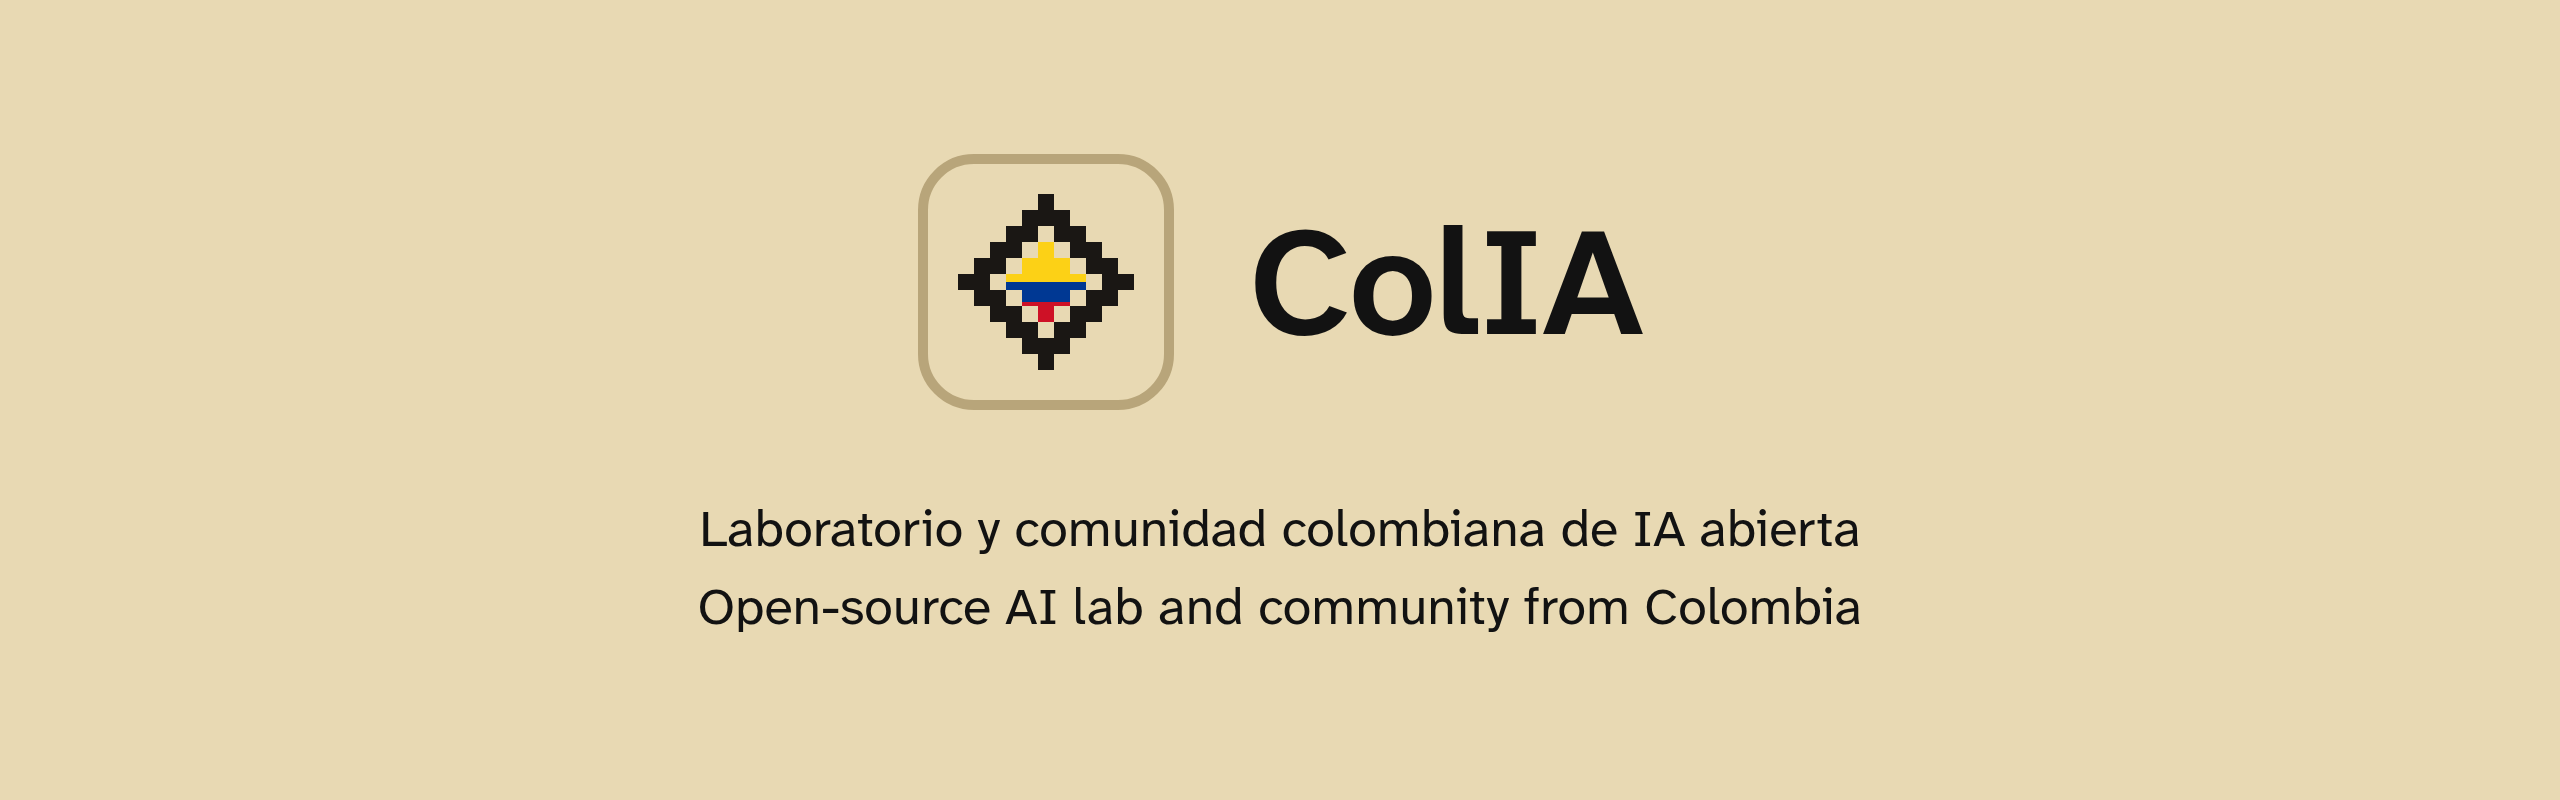
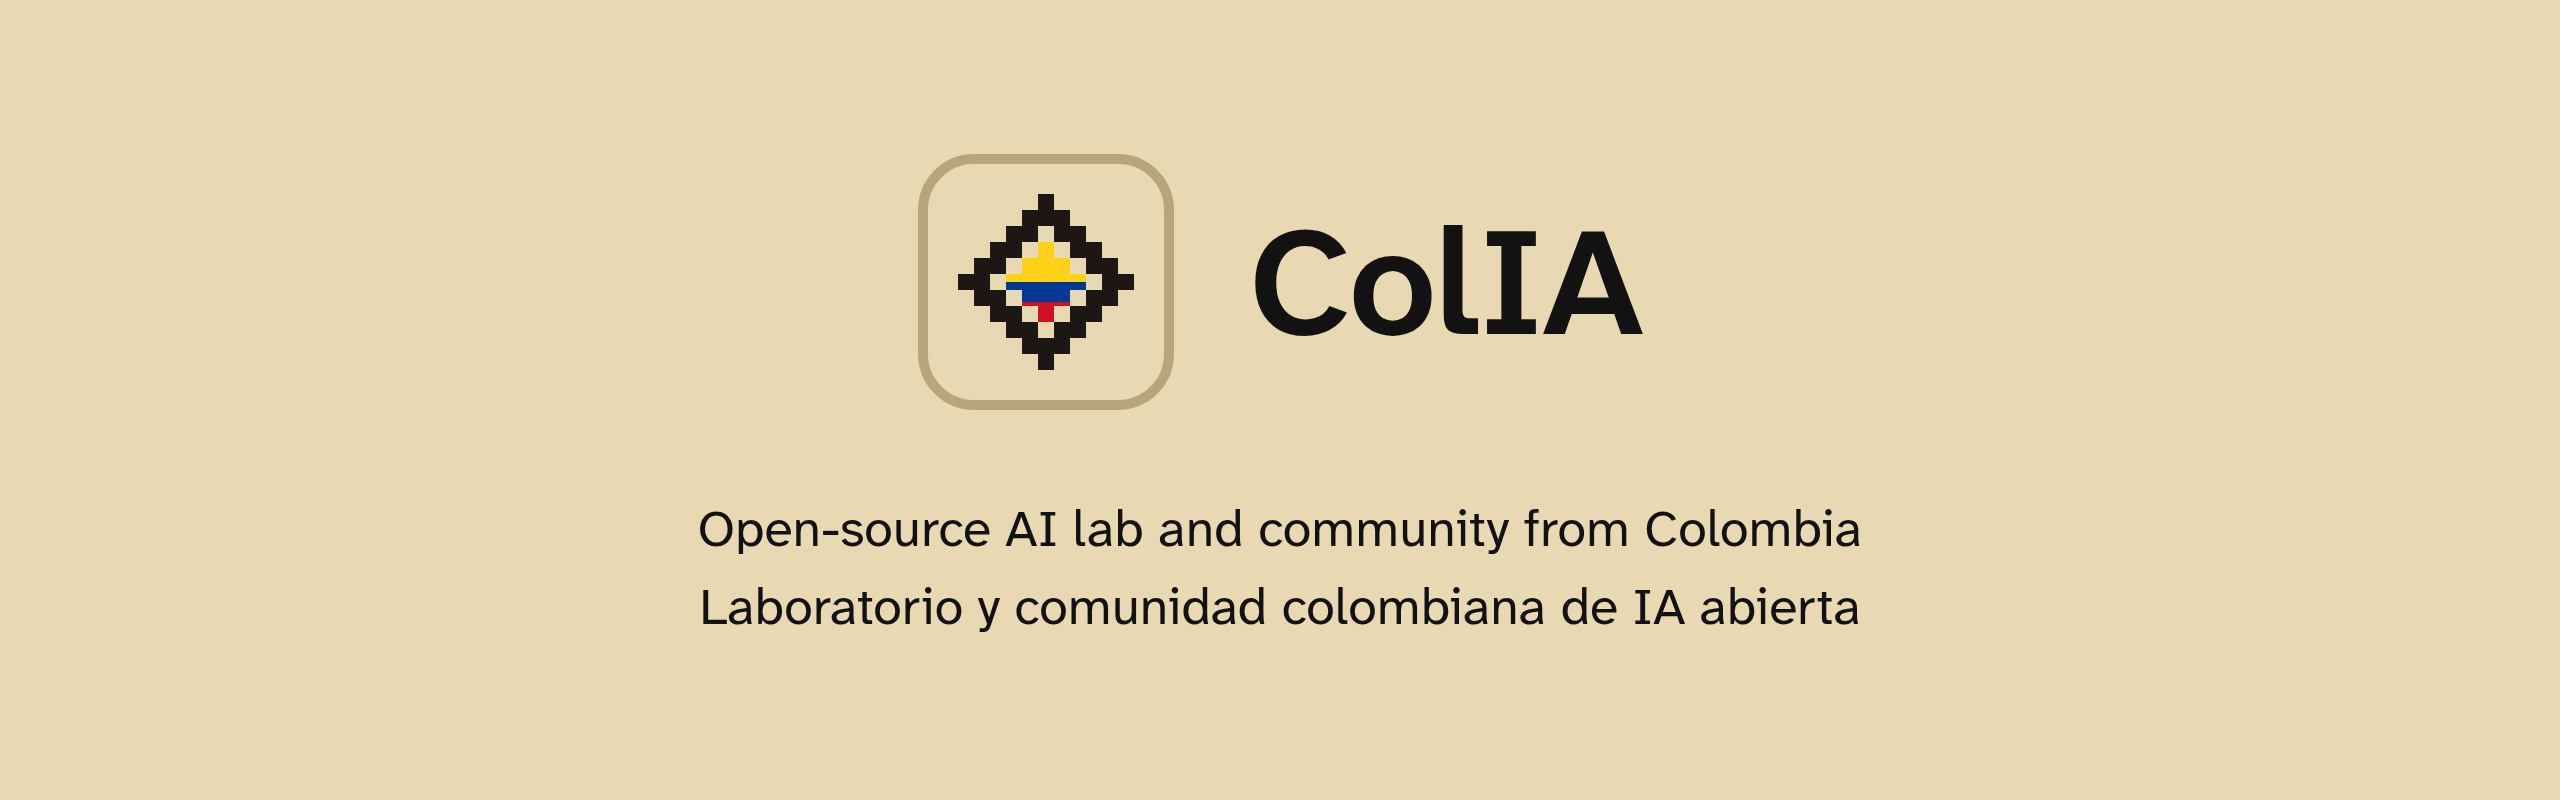
Pone el inglés primero y el español después

Changed region(s): [[0.2812, 0.625, 0.7188, 0.6875], [0.2812, 0.7188, 0.7188, 0.7812]]

diff --git a/CONTRIBUTING.md b/CONTRIBUTING.md
@@ -1,40 +1,6 @@
-# Guía para aportar · Contributing guide
+# Contributing guide · Guía para aportar
 
-[Español](#español) · [English](#english)
-
-## Español
-
-Gracias por querer aportar a ColIA. No hace falta ser experto: si estás aprendiendo, este también es tu sitio.
-
-### Formas de aportar
-
-No todo es código. Todo esto ayuda:
-
-- **Preguntar.** Si algo no se entiende, otra persona tampoco lo entiende. Pregunta en [Discussions](https://github.com/orgs/colia-labs/discussions).
-- **Contar un error.** Abre un *issue* (una incidencia: un aviso de que algo falla) en el repo del proyecto. Di qué hiciste, qué esperabas y qué pasó.
-- **Proponer una idea.** Cuéntala en Discussions antes de construirla. Así la pensamos juntos.
-- **Mejorar textos y traducciones.** Todo lo que publicamos va en español y en inglés.
-- **Medir en tu equipo.** Si pruebas un modelo en tu hardware, tus cifras sirven a otras personas.
-- **Escribir código.** Sigue los pasos de abajo.
-
-### Si vas a cambiar código o textos
-
-1. **Para un cambio grande, avisa primero** con un *issue* o en Discussions. Así no trabajas en algo que ya está en marcha.
-2. **Haz un *fork*** (tu copia del repo en tu cuenta de GitHub) y crea una rama para tu cambio.
-3. **Haz cambios pequeños y explica el porqué** en cada *commit* (cada guardado en el historial).
-4. **Abre un *pull request*** (una petición para unir tu cambio al repo). Di qué cambia y cómo lo probaste.
-5. **Responde a los comentarios.** Revisar es parte del trabajo, no un examen.
-
-Cada repo puede tener su propia guía con más detalle. Si la tiene, manda la del repo.
-
-### Cómo escribimos
-
-- En español y en inglés, en lenguaje claro: frases cortas y cada término técnico explicado la primera vez.
-- Sin exagerar. Si algo es rápido, di cuánto: «94 tok/s», no «muy rápido».
-
-### Normas
-
-Al participar aceptas las [normas de convivencia](CODE_OF_CONDUCT.md).
+[English](#english) · [Español](#español)
 
 ## English
 
@@ -47,7 +13,7 @@ Not everything is code. All of this helps:
 - **Ask.** If something isn't clear to you, it isn't clear to someone else either. Ask in [Discussions](https://github.com/orgs/colia-labs/discussions).
 - **Report a bug.** Open an issue in the project's repo. Say what you did, what you expected and what happened.
 - **Suggest an idea.** Share it in Discussions before you build it, so we can think it through together.
-- **Improve texts and translations.** Everything we publish ships in Spanish and English.
+- **Improve texts and translations.** Everything we publish ships in English and Spanish.
 - **Measure on your computer.** If you test a model on your hardware, your numbers help other people.
 - **Write code.** Follow the steps below.
 
@@ -63,9 +29,43 @@ Each repo can have its own, more detailed guide. If it does, that guide wins.
 
 ### How we write
 
-- In Spanish and English, in plain language: short sentences, and every technical term explained the first time.
+- In English and Spanish, in plain language: short sentences, and every technical term explained the first time.
 - No hype. If something is fast, say how fast: "94 tok/s", not "really fast".
 
 ### Rules
 
 By taking part, you agree to the [code of conduct](CODE_OF_CONDUCT.md).
+
+## Español
+
+Gracias por querer aportar a ColIA. No hace falta ser experto: si estás aprendiendo, este también es tu sitio.
+
+### Formas de aportar
+
+No todo es código. Todo esto ayuda:
+
+- **Preguntar.** Si algo no se entiende, otra persona tampoco lo entiende. Pregunta en [Discussions](https://github.com/orgs/colia-labs/discussions).
+- **Contar un error.** Abre un *issue* (una incidencia: un aviso de que algo falla) en el repo del proyecto. Di qué hiciste, qué esperabas y qué pasó.
+- **Proponer una idea.** Cuéntala en Discussions antes de construirla. Así la pensamos juntos.
+- **Mejorar textos y traducciones.** Todo lo que publicamos va en inglés y en español.
+- **Medir en tu equipo.** Si pruebas un modelo en tu hardware, tus cifras sirven a otras personas.
+- **Escribir código.** Sigue los pasos de abajo.
+
+### Si vas a cambiar código o textos
+
+1. **Para un cambio grande, avisa primero** con un *issue* o en Discussions. Así no trabajas en algo que ya está en marcha.
+2. **Haz un *fork*** (tu copia del repo en tu cuenta de GitHub) y crea una rama para tu cambio.
+3. **Haz cambios pequeños y explica el porqué** en cada *commit* (cada guardado en el historial).
+4. **Abre un *pull request*** (una petición para unir tu cambio al repo). Di qué cambia y cómo lo probaste.
+5. **Responde a los comentarios.** Revisar es parte del trabajo, no un examen.
+
+Cada repo puede tener su propia guía con más detalle. Si la tiene, manda la del repo.
+
+### Cómo escribimos
+
+- En inglés y en español, en lenguaje claro: frases cortas y cada término técnico explicado la primera vez.
+- Sin exagerar. Si algo es rápido, di cuánto: «94 tok/s», no «muy rápido».
+
+### Normas
+
+Al participar aceptas las [normas de convivencia](CODE_OF_CONDUCT.md).

diff --git a/profile/README.md b/profile/README.md
@@ -1,36 +1,6 @@
-<p align="center"><img src="portada.png" alt="ColIA: laboratorio y comunidad colombiana de IA abierta" width="100%"></p>
+<p align="center"><img src="portada.png" alt="ColIA: open-source AI lab and community from Colombia" width="100%"></p>
 
-<p align="center"><a href="#español">Español</a> · <a href="#english">English</a></p>
-
-## Español
-
-ColIA es un laboratorio y una comunidad colombiana de IA abierta, donde se aprende construyendo y se demuestra que en Latinoamérica también se crea.
-
-### Qué hacemos
-
-| Proyecto | Qué es | Estado |
-|---|---|---|
-| **ColIA-Local** | Una app que pone modelos de IA en tu equipo, sin cuenta y sin nube | En desarrollo |
-| **Sibundoy** | Un modelo pequeño que traduce de inglés a español | En preparación, en [Hugging Face](https://huggingface.co/colia-labs) |
-
-### Cómo trabajamos
-
-- **Abierto.** El código, los modelos y las recetas se publican con licencia abierta.
-- **Medido.** Cada afirmación lleva cifras, medidas en hardware modesto.
-- **Bilingüe.** Todo sale en español y en inglés. El español es nativo, no una traducción.
-- **Local.** Lo que hacemos funciona en tu equipo, sin depender de una nube.
-- **Comunidad.** Quien quiera aprender, explorar o aportar es bienvenido, sepa mucho o poco.
-
-### Únete
-
-No hace falta ser experto. Aquí aprendemos haciendo y en público.
-
-- **Habla con nosotros** en [Discussions](https://github.com/orgs/colia-labs/discussions): preguntas, ideas o lo que estés construyendo.
-- **Aporta** siguiendo la [guía para aportar](https://github.com/colia-labs/.github/blob/main/CONTRIBUTING.md).
-- **Lee las [normas de convivencia](https://github.com/colia-labs/.github/blob/main/CODE_OF_CONDUCT.md)**: son cortas.
-- **Escríbenos** a hola@colia.org.
-
-Pronto abriremos también un Discord.
+<p align="center"><a href="#english">English</a> · <a href="#español">Español</a></p>
 
 ## English
 
@@ -47,7 +17,7 @@ ColIA is an open-source AI lab and community from Colombia. We learn by building
 
 - **Open.** Code, models and recipes are published under open licenses.
 - **Measured.** Every claim comes with numbers, measured on modest hardware.
-- **Bilingual.** Everything ships in Spanish and English. The Spanish is native, not a translation.
+- **Bilingual.** Everything ships in English and Spanish. The Spanish is native, not a translation.
 - **Local.** What we make runs on your computer, without depending on a cloud.
 - **Community.** Anyone who wants to learn, explore or contribute is welcome, whatever they know.
 
@@ -61,3 +31,33 @@ You don't need to be an expert. Here we learn by doing, in the open.
 - **Write to us** at hola@colia.org.
 
 A Discord is coming soon.
+
+## Español
+
+ColIA es un laboratorio y una comunidad colombiana de IA abierta, donde se aprende construyendo y se demuestra que en Latinoamérica también se crea.
+
+### Qué hacemos
+
+| Proyecto | Qué es | Estado |
+|---|---|---|
+| **ColIA-Local** | Una app que pone modelos de IA en tu equipo, sin cuenta y sin nube | En desarrollo |
+| **Sibundoy** | Un modelo pequeño que traduce de inglés a español | En preparación, en [Hugging Face](https://huggingface.co/colia-labs) |
+
+### Cómo trabajamos
+
+- **Abierto.** El código, los modelos y las recetas se publican con licencia abierta.
+- **Medido.** Cada afirmación lleva cifras, medidas en hardware modesto.
+- **Bilingüe.** Todo sale en inglés y en español. El español es nativo, no una traducción.
+- **Local.** Lo que hacemos funciona en tu equipo, sin depender de una nube.
+- **Comunidad.** Quien quiera aprender, explorar o aportar es bienvenido, sepa mucho o poco.
+
+### Únete
+
+No hace falta ser experto. Aquí aprendemos haciendo y en público.
+
+- **Habla con nosotros** en [Discussions](https://github.com/orgs/colia-labs/discussions): preguntas, ideas o lo que estés construyendo.
+- **Aporta** siguiendo la [guía para aportar](https://github.com/colia-labs/.github/blob/main/CONTRIBUTING.md).
+- **Lee las [normas de convivencia](https://github.com/colia-labs/.github/blob/main/CODE_OF_CONDUCT.md)**: son cortas.
+- **Escríbenos** a hola@colia.org.
+
+Pronto abriremos también un Discord.

diff --git a/CODE_OF_CONDUCT.md b/CODE_OF_CONDUCT.md
@@ -1,45 +1,6 @@
-# Normas de convivencia · Code of conduct
+# Code of conduct · Normas de convivencia
 
-[Español](#español) · [English](#english)
-
-## Español
-
-ColIA es un sitio para aprender y construir juntos. Muchas personas llegan aquí empezando. Queremos que todas se sientan bienvenidas, sin importar su origen, edad, cuerpo, identidad, discapacidad, experiencia o nivel técnico.
-
-Estas normas valen en todos los espacios de ColIA: repos, Discussions, Discord, correo y eventos.
-
-### Lo que esperamos
-
-- **Trata bien a los demás.** Con paciencia y respeto, también cuando no estés de acuerdo.
-- **Recibe a quien empieza.** No hay preguntas tontas. Explica sin burlas.
-- **Critica las ideas, no a las personas.** Y acepta las críticas a tu trabajo con la misma calma.
-- **Reconoce tus errores.** Pide disculpas y aprende de ellos.
-- **Da crédito.** Si usas el trabajo de otra persona, dilo.
-
-### Lo que no aceptamos
-
-- Insultos, burlas y ataques personales.
-- Acoso, en público o en privado.
-- Comentarios o imágenes sexuales, racistas, machistas o discriminatorios.
-- Publicar datos privados de otra persona sin su permiso.
-- Cualquier otra conducta que no sería aceptable en un entorno de trabajo.
-
-### Si ves algo o te pasa algo
-
-Escríbenos a hola@colia.org. Leemos todos los mensajes y los tratamos en privado.
-
-### Qué puede pasar
-
-Según la gravedad, quien incumpla estas normas puede recibir:
-
-1. Un aviso en privado.
-2. Un aviso público.
-3. Una expulsión temporal.
-4. Una expulsión permanente.
-
-### Origen
-
-Estas normas son una versión corta y adaptada del [Contributor Covenant](https://www.contributor-covenant.org/), versión 2.1, publicado con licencia [CC BY 4.0](https://creativecommons.org/licenses/by/4.0/).
+[English](#english) · [Español](#español)
 
 ## English
 
@@ -79,3 +40,42 @@ Depending on how serious it is, someone who breaks these rules may get:
 ### Origin
 
 These rules are a short, adapted version of the [Contributor Covenant](https://www.contributor-covenant.org/), version 2.1, published under the [CC BY 4.0](https://creativecommons.org/licenses/by/4.0/) license.
+
+## Español
+
+ColIA es un sitio para aprender y construir juntos. Muchas personas llegan aquí empezando. Queremos que todas se sientan bienvenidas, sin importar su origen, edad, cuerpo, identidad, discapacidad, experiencia o nivel técnico.
+
+Estas normas valen en todos los espacios de ColIA: repos, Discussions, Discord, correo y eventos.
+
+### Lo que esperamos
+
+- **Trata bien a los demás.** Con paciencia y respeto, también cuando no estés de acuerdo.
+- **Recibe a quien empieza.** No hay preguntas tontas. Explica sin burlas.
+- **Critica las ideas, no a las personas.** Y acepta las críticas a tu trabajo con la misma calma.
+- **Reconoce tus errores.** Pide disculpas y aprende de ellos.
+- **Da crédito.** Si usas el trabajo de otra persona, dilo.
+
+### Lo que no aceptamos
+
+- Insultos, burlas y ataques personales.
+- Acoso, en público o en privado.
+- Comentarios o imágenes sexuales, racistas, machistas o discriminatorios.
+- Publicar datos privados de otra persona sin su permiso.
+- Cualquier otra conducta que no sería aceptable en un entorno de trabajo.
+
+### Si ves algo o te pasa algo
+
+Escríbenos a hola@colia.org. Leemos todos los mensajes y los tratamos en privado.
+
+### Qué puede pasar
+
+Según la gravedad, quien incumpla estas normas puede recibir:
+
+1. Un aviso en privado.
+2. Un aviso público.
+3. Una expulsión temporal.
+4. Una expulsión permanente.
+
+### Origen
+
+Estas normas son una versión corta y adaptada del [Contributor Covenant](https://www.contributor-covenant.org/), versión 2.1, publicado con licencia [CC BY 4.0](https://creativecommons.org/licenses/by/4.0/).
